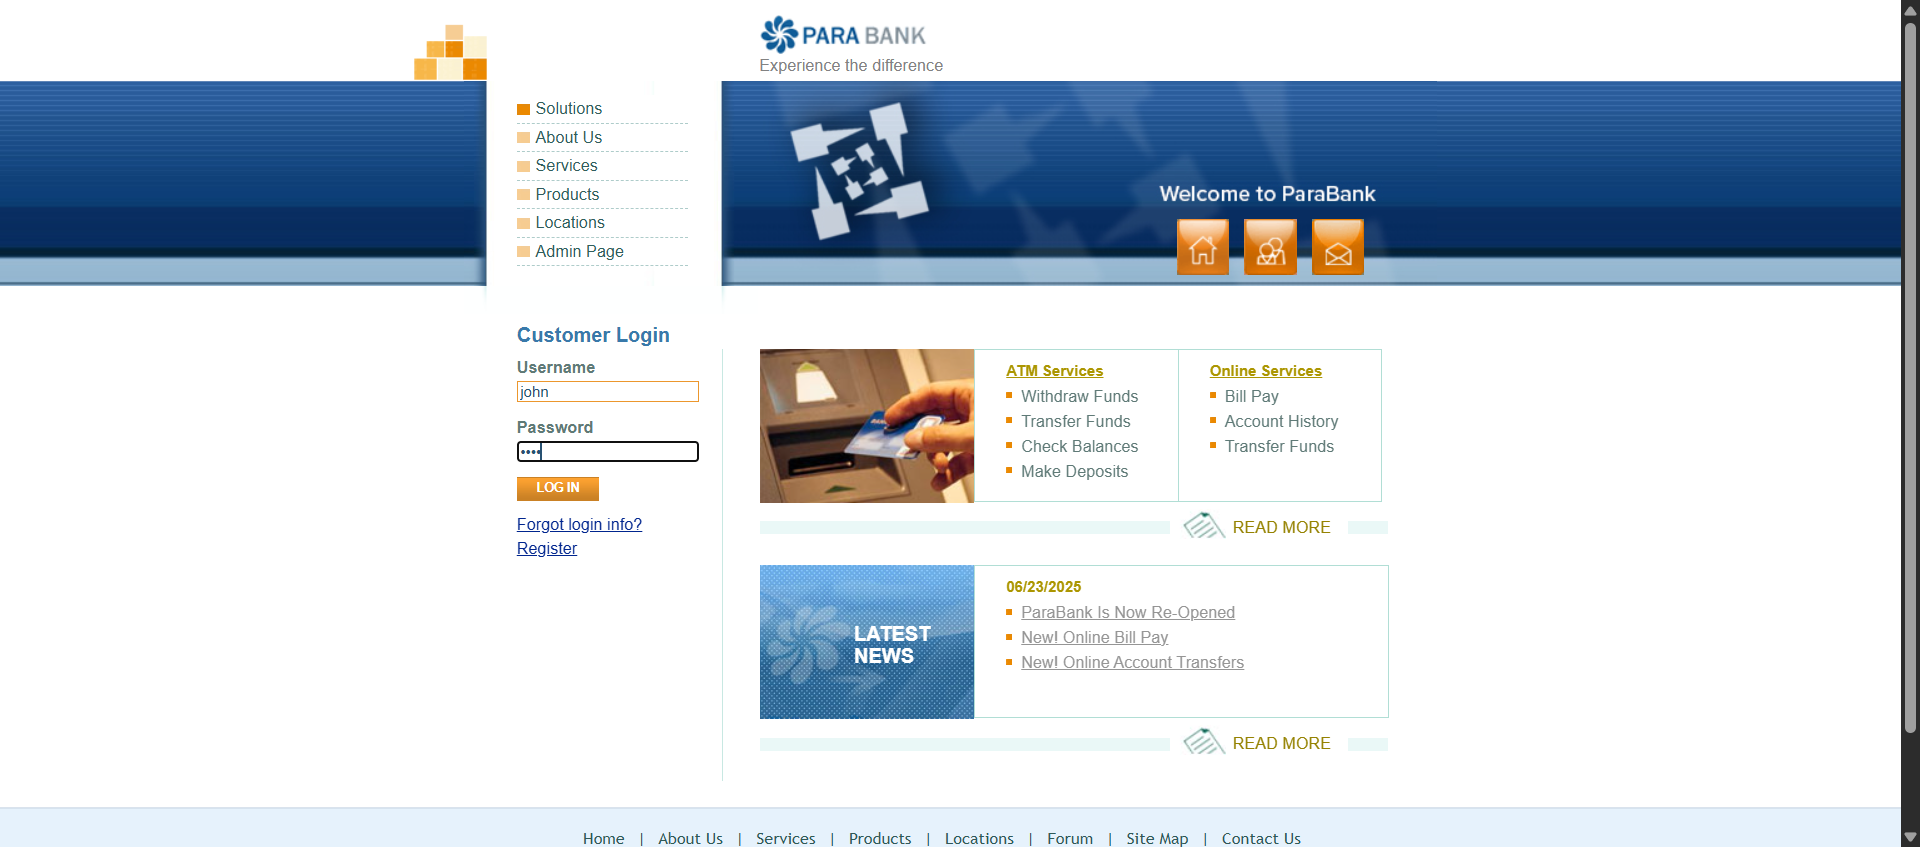
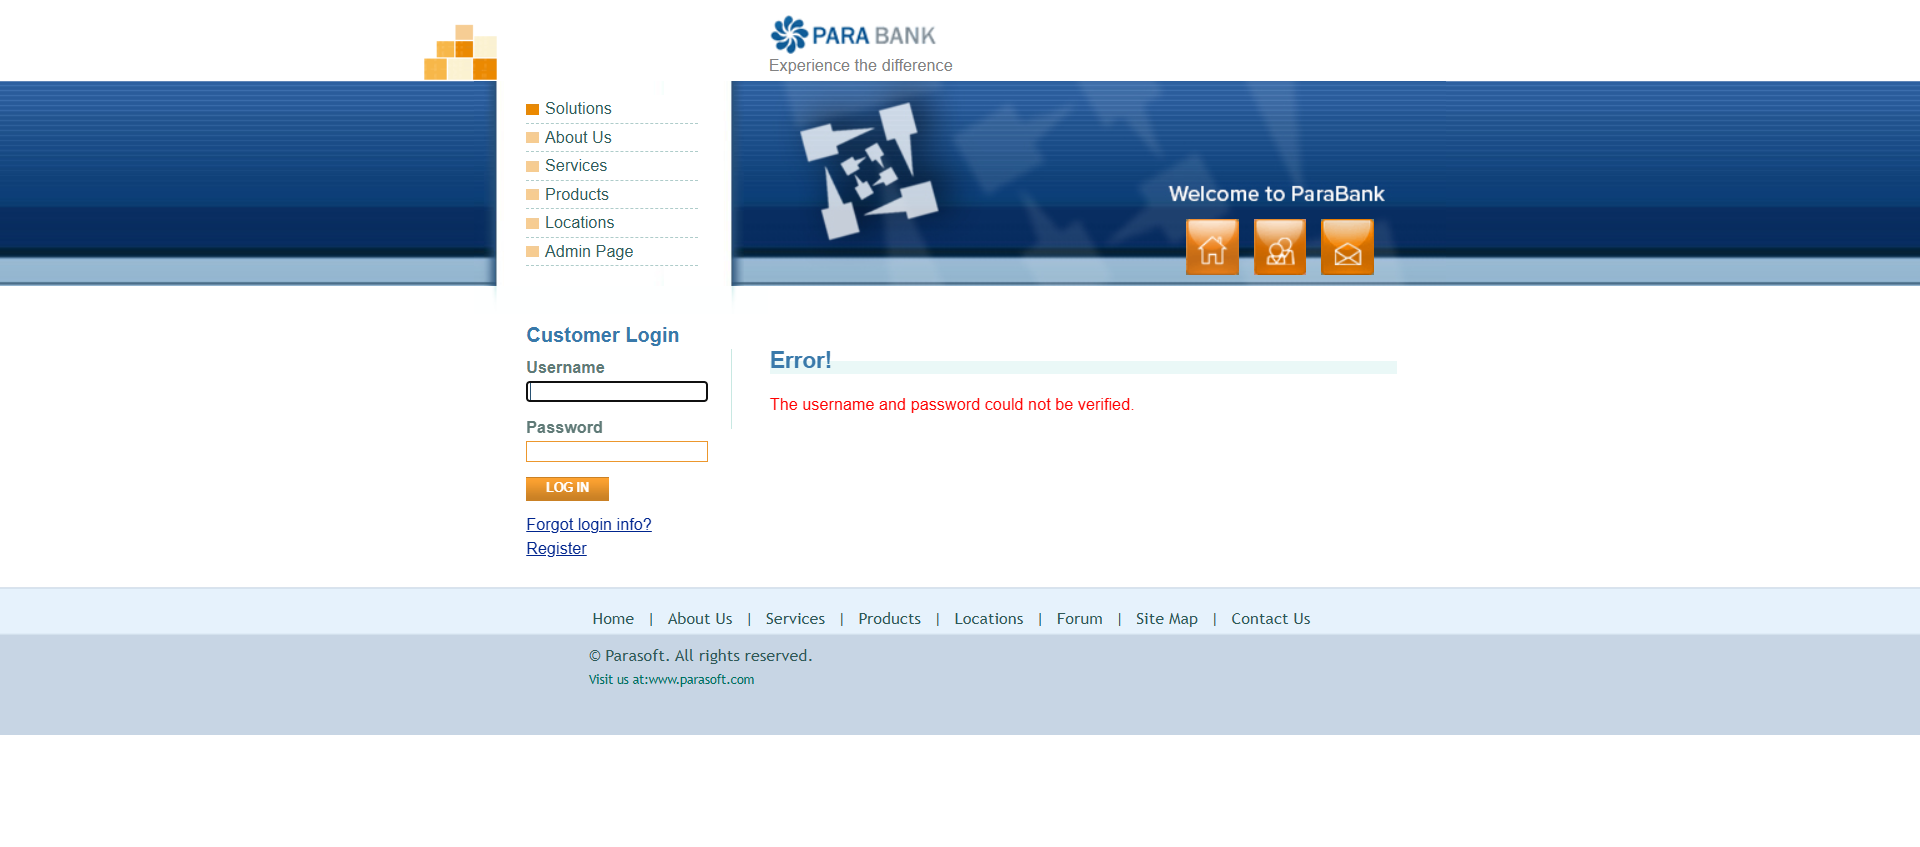
consertando evidência QBEF-02 da feature de login

diff --git a/log.html b/log.html
@@ -2071,25 +2071,25 @@ storage = function () {
 window.output = {};
 </script>
 <script type="text/javascript">
-window.output["suite"] = [1,2,3,0,[],[1,0,13209],[],[[4,0,0,[5,6],[1,372,12835],[[1,7,8,0,0,0,0,0,[1,374,3423],[[0,9,10,0,11,12,0,0,[1,375,3394],[[375,2,13]]],[0,14,10,0,15,0,0,0,[1,3770,27],[]]]],[0,16,17,0,0,0,0,0,[1,3798,1420],[[0,18,19,0,0,20,0,0,[1,3799,1370],[[0,21,10,0,22,23,0,0,[1,3799,135],[[3800,2,24]]],[0,21,10,0,22,25,0,0,[1,3934,63],[[3935,2,26]]],[0,27,17,0,0,28,0,0,[1,3998,146],[[0,29,10,0,30,31,0,0,[1,3998,146],[[4143,2,32]]]]],[0,33,10,0,34,35,0,0,[1,4144,1024],[[4145,2,36]]]]],[0,37,19,0,0,0,0,0,[1,5169,49],[[0,38,10,0,39,40,0,0,[1,5169,33],[]],[0,41,10,0,42,43,0,0,[1,5203,15],[[5218,2,44]]]]]]],[0,45,46,0,0,0,0,0,[1,5219,326],[[0,38,10,0,39,47,0,0,[1,5219,16],[]],[0,48,10,0,49,47,0,0,[1,5236,309],[[5236,2,50]]]]],[0,51,46,0,0,0,0,0,[1,5546,4157],[[0,52,53,0,54,55,0,0,[1,5546,2001],[[7547,2,56]]],[0,21,10,0,22,57,0,0,[1,7548,62],[[7550,2,58]]],[0,52,53,0,54,55,0,0,[1,7610,2002],[[9611,2,56]]],[0,21,10,0,22,59,0,0,[1,9613,90],[[9614,2,60]]]]],[0,61,46,0,0,0,0,0,[1,9704,1281],[[0,33,10,0,34,62,0,0,[1,9704,60],[[9705,2,63]]],[0,52,53,0,54,64,0,0,[1,9765,1002],[[10766,2,65]]],[0,41,10,0,42,66,0,0,[1,10767,34],[[10800,2,67]]],[0,41,10,0,42,68,0,0,[1,10801,31],[[10832,2,69]]],[0,27,17,0,0,70,0,0,[1,10833,151],[[0,29,10,0,30,31,0,0,[1,10834,150],[[10983,2,71]]]]]]],[2,72,8,0,0,0,0,0,[1,10986,2220],[[0,73,10,0,74,0,0,0,[1,10987,2218],[]]]]]]],[],[1,1,0,0]];
+window.output["suite"] = [1,2,3,0,[],[1,0,6892],[],[[4,0,0,[5,6],[1,420,6470],[[1,7,8,0,0,0,0,0,[1,421,3179],[[0,9,10,0,11,12,0,0,[1,423,3131],[[423,2,13]]],[0,14,10,0,15,0,0,0,[1,3554,46],[]]]],[0,16,17,0,0,0,0,0,[1,3602,104],[[0,18,10,0,19,20,0,0,[1,3602,33],[]],[0,21,10,0,22,23,0,0,[1,3635,19],[[3652,2,24]]],[0,18,10,0,19,25,0,0,[1,3656,30],[]],[0,21,10,0,22,26,0,0,[1,3686,19],[[3705,2,27]]]]],[0,28,17,0,0,29,0,0,[1,3708,881],[[0,30,10,0,31,32,0,0,[1,3710,124],[[3711,2,33]]],[0,30,10,0,31,34,0,0,[1,3834,85],[[3835,2,35]]],[0,36,10,0,37,38,0,0,[1,3920,490],[[3920,2,39]]],[0,40,41,0,0,42,0,0,[1,4410,179],[[0,43,10,0,44,45,0,0,[1,4410,178],[[4588,2,46]]]]]]],[0,47,17,0,0,0,0,0,[1,4590,123],[[0,18,10,0,19,48,0,0,[1,4591,75],[]],[0,49,10,0,50,51,0,0,[1,4667,46],[]]]],[2,52,8,0,0,0,0,0,[1,4714,2176],[[0,53,10,0,54,0,0,0,[1,4714,2175],[]]]]]]],[],[1,1,0,0]];
 </script>
 <script type="text/javascript">
 window.output["strings"] = [];
 </script>
 <script type="text/javascript">
[2 lines of base64/hex data omitted]
 </script>
 <script type="text/javascript">
-window.output["stats"] = [[{"elapsed":"00:00:13","fail":0,"label":"All Tests","pass":1,"skip":0}],[{"elapsed":"00:00:13","fail":0,"label":"Negative","pass":1,"skip":0},{"elapsed":"00:00:13","fail":0,"label":"update-profile","pass":1,"skip":0}],[{"elapsed":"00:00:13","fail":0,"id":"s1","label":"TestCasesUpdateProfile","name":"TestCasesUpdateProfile","pass":1,"skip":0}]];
+window.output["stats"] = [[{"elapsed":"00:00:06","fail":0,"label":"All Tests","pass":1,"skip":0}],[{"elapsed":"00:00:06","fail":0,"label":"Login","pass":1,"skip":0},{"elapsed":"00:00:06","fail":0,"label":"Negative","pass":1,"skip":0}],[{"elapsed":"00:00:07","fail":0,"id":"s1","label":"TestCasesLogin","name":"TestCasesLogin","pass":1,"skip":0}]];
 </script>
 <script type="text/javascript">
 window.output["errors"] = [];
 </script>
 <script type="text/javascript">
-window.output["baseMillis"] = 1750678345303;
+window.output["baseMillis"] = 1750685090058;
 </script>
 <script type="text/javascript">
-window.output["generated"] = 13249;
+window.output["generated"] = 6916;
 </script>
 <script type="text/javascript">
 window.output["expand_keywords"] = null;

diff --git a/report.html b/report.html
@@ -1887,22 +1887,22 @@ storage = function () {
 window.output = {};
 </script>
 <script type="text/javascript">
-window.output["suite"] = [1,2,3,0,[],[1,0,13209],[],[[4,0,0,[5,6],[1,372,12835],[]]],[],[1,1,0,0]];
+window.output["suite"] = [1,2,3,0,[],[1,0,6892],[],[[4,0,0,[5,6],[1,420,6470],[]]],[],[1,1,0,0]];
 </script>
 <script type="text/javascript">
 window.output["strings"] = [];
 </script>
 <script type="text/javascript">
[2 lines of base64/hex data omitted]
 </script>
 <script type="text/javascript">
-window.output["stats"] = [[{"elapsed":"00:00:13","fail":0,"label":"All Tests","pass":1,"skip":0}],[{"elapsed":"00:00:13","fail":0,"label":"Negative","pass":1,"skip":0},{"elapsed":"00:00:13","fail":0,"label":"update-profile","pass":1,"skip":0}],[{"elapsed":"00:00:13","fail":0,"id":"s1","label":"TestCasesUpdateProfile","name":"TestCasesUpdateProfile","pass":1,"skip":0}]];
+window.output["stats"] = [[{"elapsed":"00:00:06","fail":0,"label":"All Tests","pass":1,"skip":0}],[{"elapsed":"00:00:06","fail":0,"label":"Login","pass":1,"skip":0},{"elapsed":"00:00:06","fail":0,"label":"Negative","pass":1,"skip":0}],[{"elapsed":"00:00:07","fail":0,"id":"s1","label":"TestCasesLogin","name":"TestCasesLogin","pass":1,"skip":0}]];
 </script>
 <script type="text/javascript">
-window.output["baseMillis"] = 1750678345303;
+window.output["baseMillis"] = 1750685090058;
 </script>
 <script type="text/javascript">
-window.output["generated"] = 13249;
+window.output["generated"] = 6916;
 </script>
 <script type="text/javascript">
 window.output["expand_keywords"] = null;
